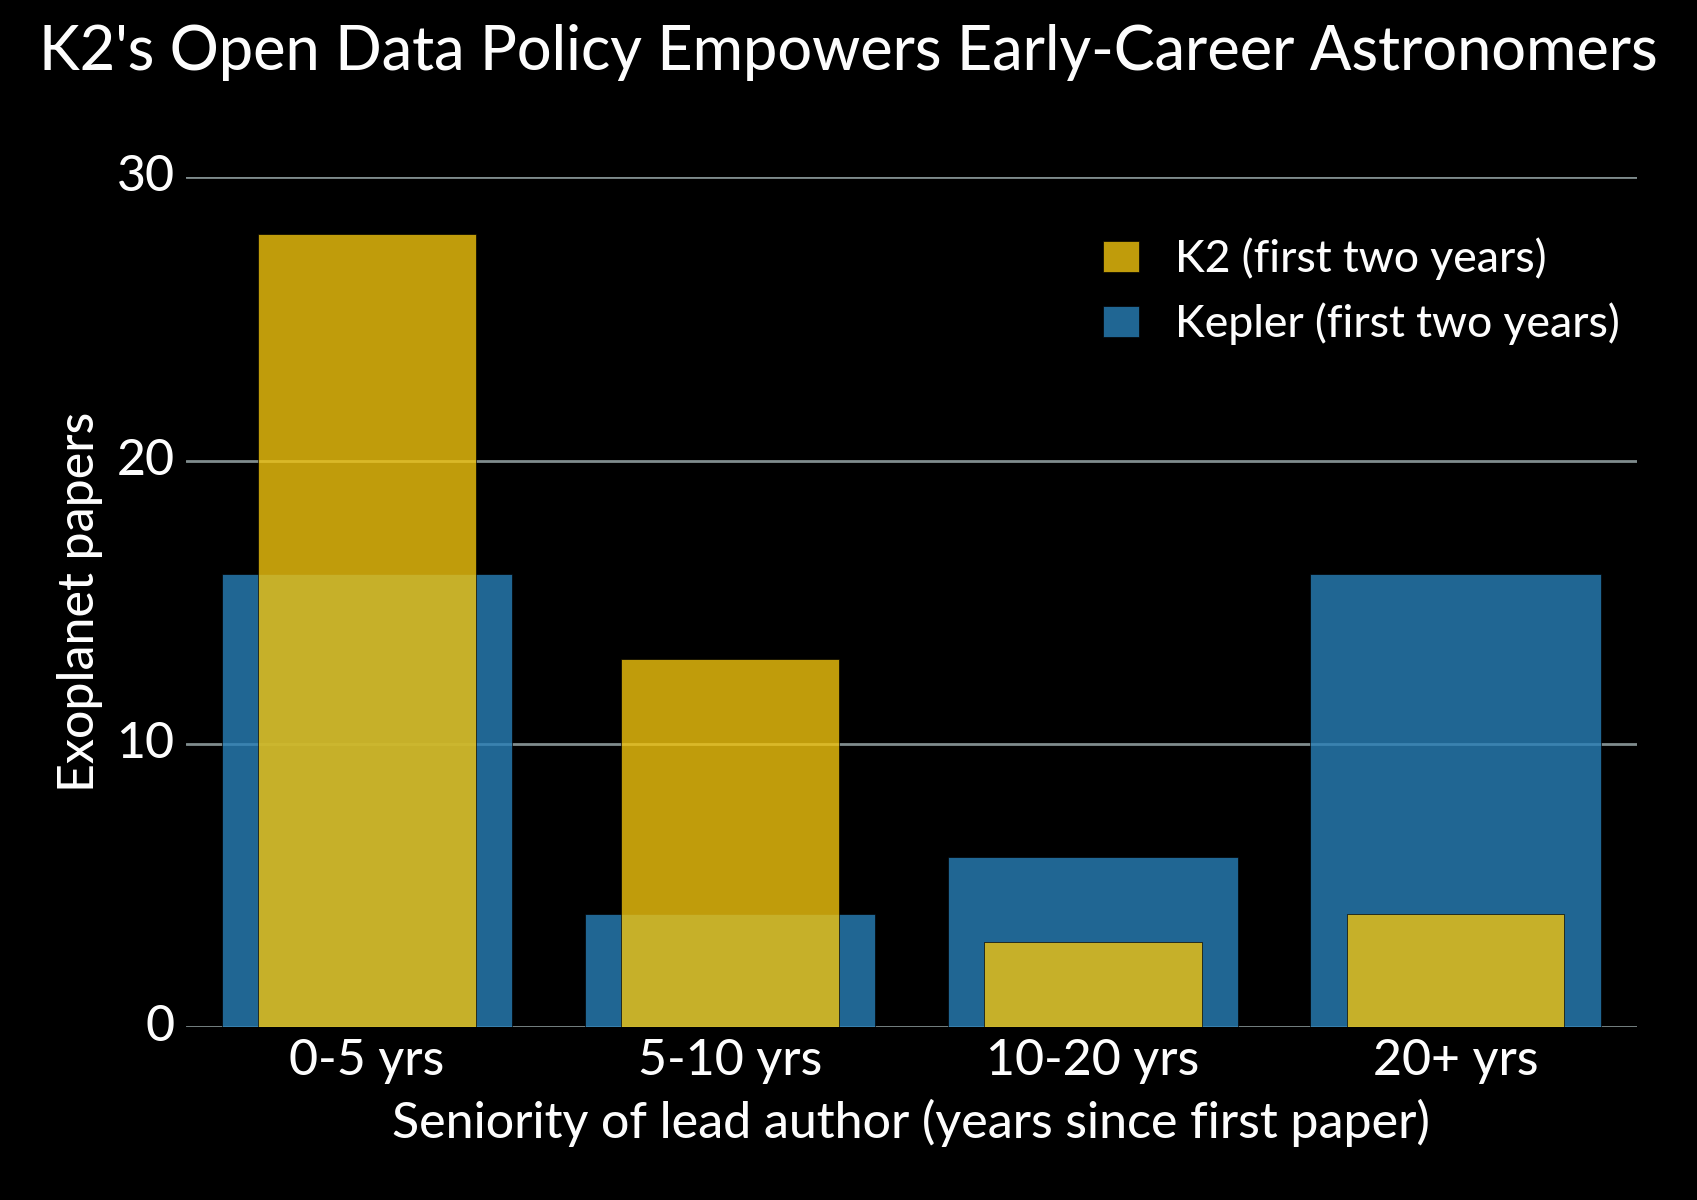
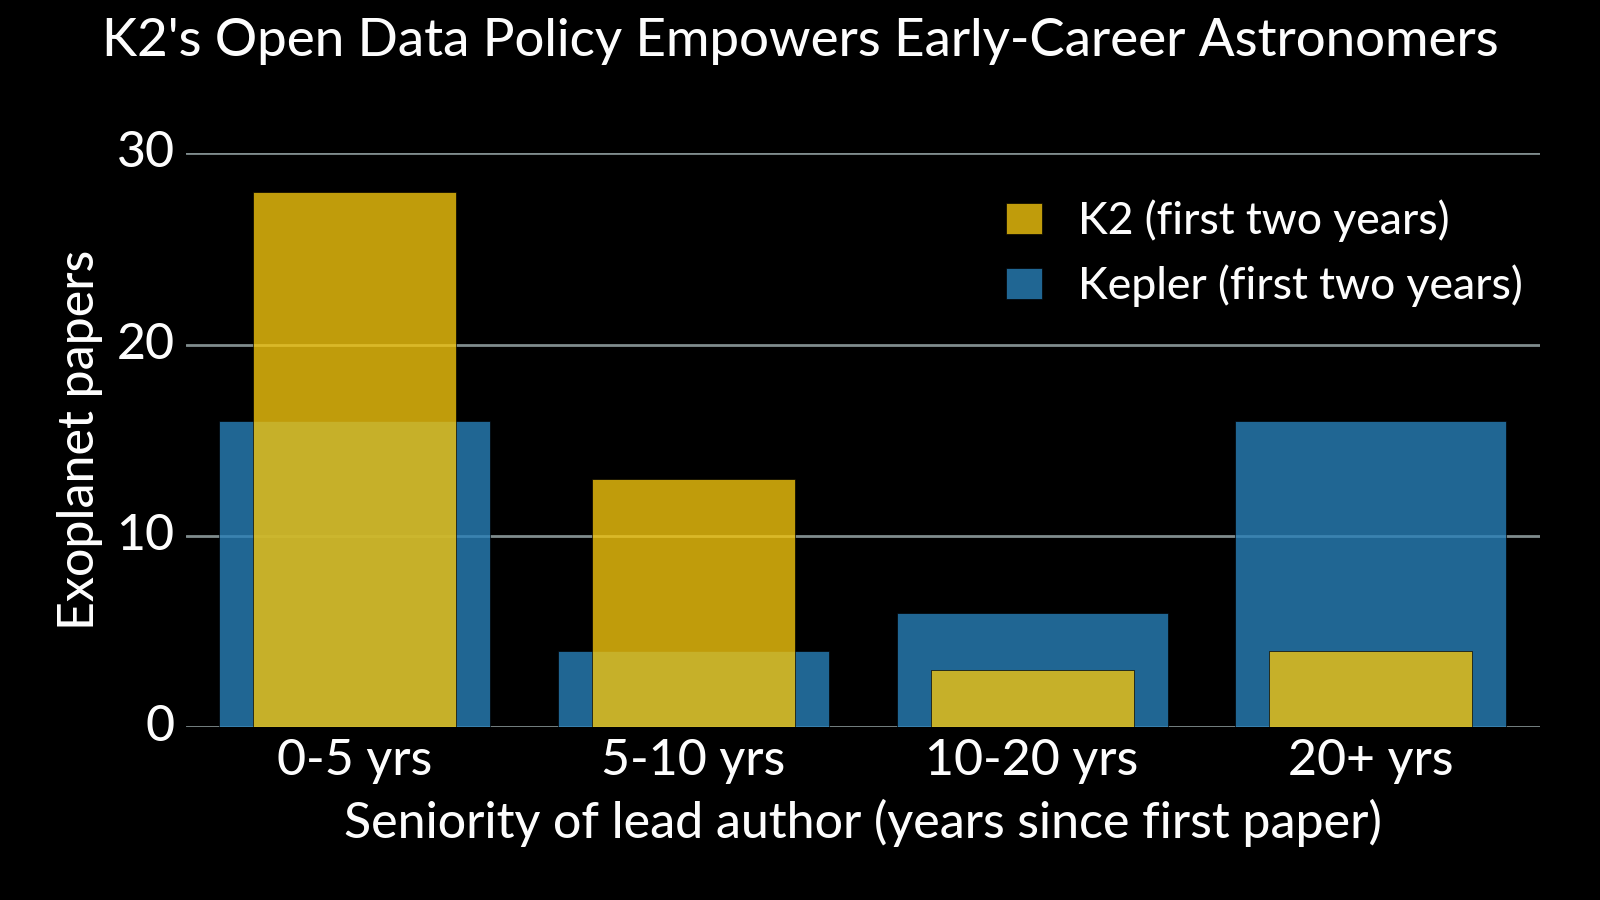
Update seniority plot ratio

diff --git a/publication-stats/kepler-author-seniority.py b/publication-stats/kepler-author-seniority.py
@@ -40,7 +40,7 @@ def binning(data, bins):
     return np.histogram(data, bins=bins)[0]
 
 
-fig = pl.figure()
+fig = pl.figure(figsize=(8, 4.5))
 pl.subplots_adjust(left=0.12, right=0.98,
                     bottom=0.15, top=0.98,
                     hspace=0.2)
@@ -66,7 +66,7 @@ ax_k.spines["bottom"].set_visible(False)
 # Only show bottom and left ticks
 ax_k.get_xaxis().tick_bottom()
 ax_k.get_yaxis().tick_left()
-pl.grid(axis='x')
+pl.grid(axis='y')
 pl.yticks([0, 10, 20, 30], fontsize=18)
 pl.xticks([1, 2, 3, 4],
           ['0-5 yrs', '5-10 yrs', '10-20 yrs', '20+ yrs'],
@@ -75,7 +75,7 @@ pl.xticks([1, 2, 3, 4],
 ax_k.set_xlabel('Seniority of lead author (years since first paper)',
                 fontsize=18)
 ax_k.set_ylabel("Exoplanet papers", fontsize=18)
-pl.suptitle("K2's Open Data Policy Empowers Early-Career Astronomers", fontsize=22)
+pl.suptitle("K2's Open Data Policy Empowers Early-Career Astronomers", fontsize=19)
 
 pl.legend(bbox_to_anchor=(1, 0.95),
           ncol=1,
